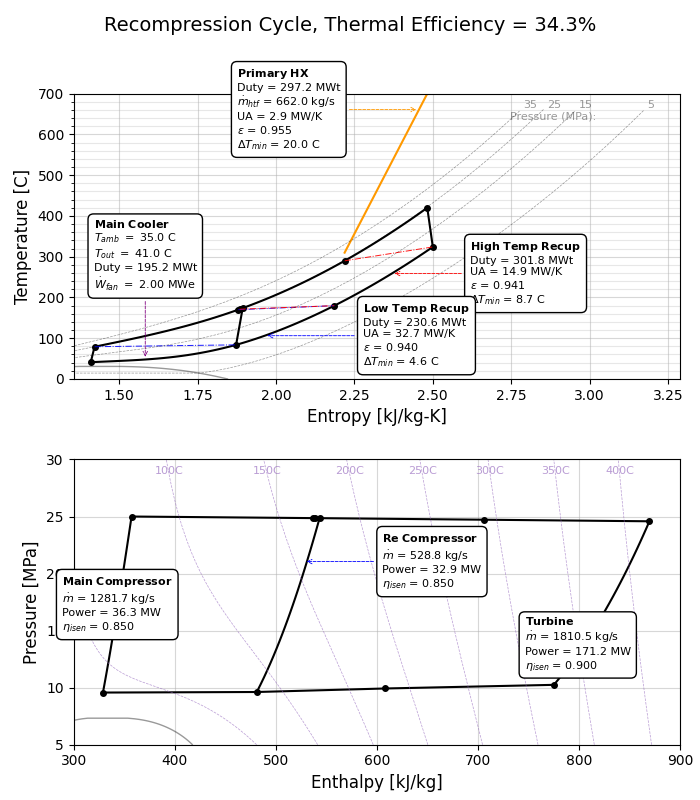
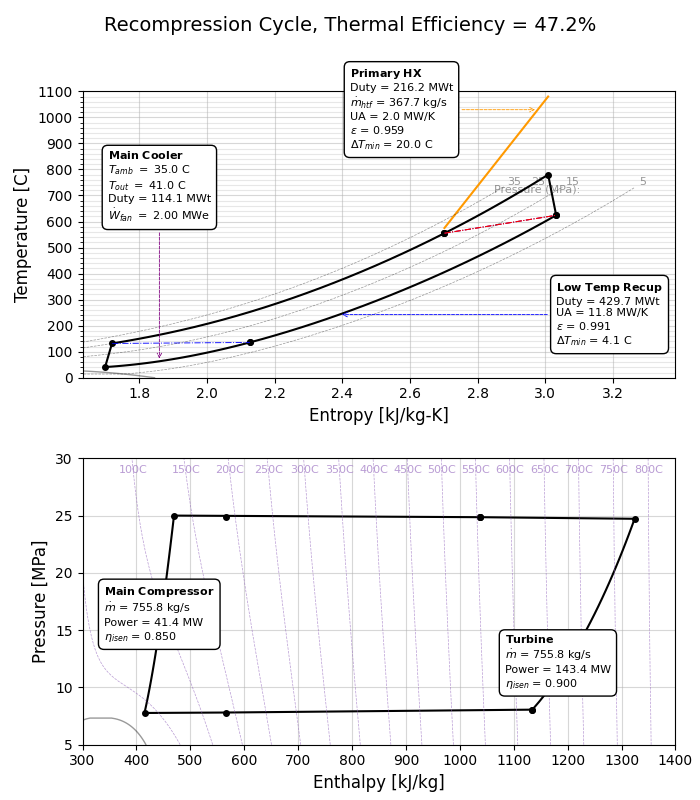
setup for new figure generation

diff --git a/SSC CSP API/SAMplot.py b/SSC CSP API/SAMplot.py
@@ -292,7 +292,7 @@ class Parameters():
         self.t_D                            = Struct(key = "t_D",                              dtype = "float64", repr = "Turbine diameter",                                                 units = r"[m]",          )
         self.t_cost_equipment               = Struct(key = "t_cost_equipment",                 dtype = "float64", repr = "Tubine cost - equipment",                                          units = r"[M$]",         )
         self.t_cost_bare_erected            = Struct(key = "t_cost_bare_erected",              dtype = "float64", repr = "Tubine cost - equipment plus install",                             units = r"[M$]",         )
-        self.recup_total_UA_assigned        = Struct(key = "recup_total_UA_assigned",          dtype = "float64", repr = "Total recuperator UA assigned to design routine",                  units = r"[MW/K]",       )
+        self.recup_total_UA_assigned        = Struct(key = "recup_total_UA_assigned",          dtype = "float64", repr = "Total recuperator UA",                                             units = r"[MW/K]",       )
         self.recup_total_cost_equipment     = Struct(key = "recup_total_cost_equipment",       dtype = "float64", repr = "Total recuperator cost equipment",                                 units = r"[M$]",         )
         self.recup_total_cost_bare_erected  = Struct(key = "recup_total_cost_bare_erected",    dtype = "float64", repr = "Total recuperator cost bare erected",                              units = r"[M$]",         )
         self.recup_LTR_UA_frac              = Struct(key = "recup_LTR_UA_frac",                dtype = "float64", repr = "Fraction of total conductance to LTR",                             units = r"[-]",          )
@@ -1128,53 +1128,39 @@ class SAMplot():
 
 if __name__=='__main__': 
 
-    # source = os.path.join(os.getcwd(), 'SSC CSP API', 'results', '2025-02-10_full solution.csv')
-    # source = os.path.join(os.getcwd(), 'SSC CSP API', 'results', '2025-02-14_cost basis sensitivity.csv')
-    # source = os.path.join(os.getcwd(), 'SSC CSP API', 'results', '2025-02-18_heliostat cost sensitivity.csv')
-    # source = os.path.join(os.getcwd(), 'SSC CSP API', 'results', '2025-02-18_receiver eta sensitivity.csv')
-    source = os.path.join(os.getcwd(), 'SSC CSP API', 'results', '2025-02-28_full solution.csv')
-
+    source = os.path.join(os.getcwd(), 'SSC CSP API', 'results', '2025-05-12_full solution.csv')
     params = Parameters()
     dtypes = {par.key: par.dtype for par in params.get()}
     samplt = SAMplot(source, dtypes=dtypes)
-    samplt.normalize(params, params.levelized_cost_of_energy, 65.50304439)
+    samplt.normalize(params, params.levelized_cost_of_energy, 88.8201)
 
-    # samplt.x = params.PHX_cost_basis
-    # samplt.y = params.m_dot_htf_des
-    # samplt.z = params.PHX_hot_in
-
-    samplt.build()
-
-    print(f"{params.T_turb_in.repr:.<50}{samplt.data[params.T_turb_in.key]:.>8.2f} {params.T_turb_in.units}")
-    print(f"{params.T_co2_PHX_in.repr:.<50}{samplt.data[params.T_co2_PHX_in.key]:.>8.2f} {params.T_co2_PHX_in.units}")
-    print(f"{'HTF Inlet Temperature (PHX Inlet)':.<50}{samplt.data[params.T_htf_cold_des.key]+samplt.data[params.deltaT_HTF_PHX.key]:.>8.2f} {params.T_htf_cold_des.units}")
-    print(f"{params.T_htf_cold_des.repr:.<50}{samplt.data[params.T_htf_cold_des.key]:.>8.2f} {params.T_htf_cold_des.units}")
-    quit()
-
+    samplt.x = params.heliostat_cost
+    samplt.y = params.levelized_cost_of_energy_norm
+    samplt.z = params.PHX_hot_in
 
     samplt.legend = False
     samplt.plot3d = False
-    samplt.scatter = True
+    samplt.scatter = False
     samplt.grayscale = False
     samplt.linelabels = False
 
     samplt.filter(
-        (params.try_s_cycle, lambda x: x == 1), 
-        (params.UA_recup_tot, lambda x: x != 30000), 
-        (params.PHX_dT_cold, lambda x: x == 20), 
-        (params.rec_eta_mod, lambda x: x >= 0.99), 
-        # (params.PHX_dT_hot, lambda x: x == 240), 
-        # (params.PHX_hot_in, lambda x: x <= 950), 
-        # (params.PHX_cost_basis, lambda x: x == 100), 
-        # (params.levelized_cost_of_energy, lambda x: x <= 60), 
-        (params.PHX_cost_basis, (min, params.levelized_cost_of_energy)), 
+        # --- default filters 
+        (params.try_s_cycle, lambda x: x == 1.00), 
+        (params.rec_eta_mod, lambda x: x >= 0.99 and x <= 1.01), 
+        
+        # --- common filters
+        (params.PHX_cost_basis, lambda x: x >= 210), 
+        (params.heliostat_cost, lambda x: x == 75),
+
+        # --- plot filtering
+        # (params.levelized_cost_of_energy, lambda x: x <= 100), 
     )
     
     samplt.build()
     samplt.show()
-    quit()
 
-    def phx_design_space(): 
+    def case1(): # phx design space 
 
         samplt.x = params.PHX_cost_basis
         samplt.y = params.levelized_cost_of_energy_norm
@@ -1193,6 +1179,7 @@ if __name__=='__main__':
             (params.PHX_dT_hot, lambda x: x == 280), 
             (params.PHX_hot_in, lambda x: x % 20 == 0 and x <= 1100 and x >= 760 and x not in [980]), 
             (params.rec_eta_mod, lambda x: x >= 0.99), 
+            (params.heliostat_cost, lambda x: x == 75),
             (params.PHX_cost_basis, (min, params.levelized_cost_of_energy))
         )
 
@@ -1229,7 +1216,8 @@ if __name__=='__main__':
             (params.UA_recup_tot, lambda x: x != 30000), 
             (params.PHX_dT_cold, lambda x: x == 20), 
             (params.rec_eta_mod, lambda x: x >= 0.99), 
-            (params.levelized_cost_of_energy, lambda x: x <= 70), 
+            (params.levelized_cost_of_energy, lambda x: x <= 100), 
+            (params.heliostat_cost, lambda x: x == 75),
             (params.PHX_cost_basis, (min, params.levelized_cost_of_energy)), 
         )
 
@@ -1268,8 +1256,6 @@ if __name__=='__main__':
         samplt.build(style='--')
         samplt.save(name='PHX Design Space')
         samplt.show()
-
-    phx_design_space()
 
     # samplt.baseline = (100, 65.1954)
     # ---

diff --git a/SSC CSP API/main.py b/SSC CSP API/main.py
@@ -475,28 +475,28 @@ if __name__=='__main__':
         'opt_logging'          : 0,      # [-] 
         'LTR_min_dT_des_in'    : 5,      # [C] 
         'HTR_min_dT_des_in'    : 5,      # [C] 
-        'dT_PHX_hot_approach'  : 280.0,  # [C] 
+        'dT_PHX_hot_approach'  : 20.0,   # [C] 
         'dT_PHX_cold_approach' : 20.0,   # [C] 
         'PHX_cost_model'       : 100.0,  # [-]
         'gross_to_net'         : 0.98,   # [-]
         'W_dot_net_des'        : 100.0,  # [MWe]
     })
 
-    # system.update(prebuilt='maxeta')
-    # system.optimize(savefig=True)
-
-    # system.update(prebuilt='minlcoe')
-    # system.optimize(savefig=True)
+    system.update(prebuilt='maxeta')
+    system.optimize(savefig=False)
 
     system.update(prebuilt='minlcoe')
-    system.parametric(params={
-        'W_dot_net_des'       : [100], 
-        'heliostat_cost'      : np.arange(50, 100, 5),  
-        'PHX_cost_model'      : np.arange(60, 1001, 20), 
-        'dT_PHX_hot_approach' : np.arange(100, 301, 10), 
-        'dT_PHX_cold_approach': np.arange(20, 101, 20), 
-        'T_htf_hot_des'       : np.arange(700, 1100, 20)
-    }, cores=4)
+    system.optimize(savefig=False)
+
+    # system.update(prebuilt='minlcoe')
+    # system.parametric(params={
+    #     'W_dot_net_des'       : [100], 
+    #     'heliostat_cost'      : np.arange(50, 100, 5),  
+    #     'PHX_cost_model'      : np.arange(60, 1001, 20), 
+    #     'dT_PHX_hot_approach' : np.arange(100, 301, 10), 
+    #     'dT_PHX_cold_approach': np.arange(20, 101, 20), 
+    #     'T_htf_hot_des'       : np.arange(700, 1100, 20)
+    # }, cores=4)
 
 
 

diff --git a/FPR Modeling/FPlotR.py b/FPR Modeling/FPlotR.py
@@ -121,7 +121,6 @@ class Parameters():
     ```
 
     ### Methods
-    ---
     ```
     get() -> list
         Provides a list of all parameters as Structs.
@@ -1052,7 +1051,7 @@ if __name__=='__main__':
 
     fprplt.build()
     fprplt.show()
-
+    
     def case1(): 
         fprplt.x = params.q_des_o
         fprplt.y = params.T_des_i
